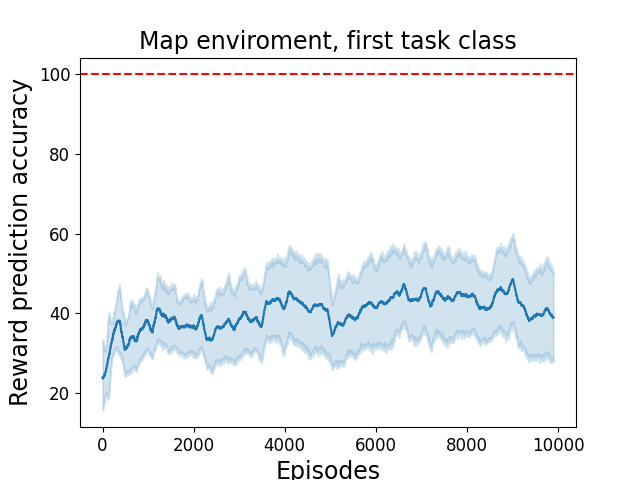
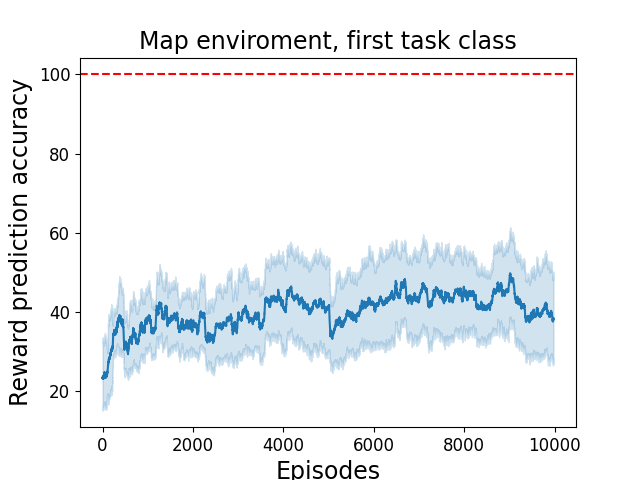
plots sequence classification

diff --git a/plot_final.py b/plot_final.py
@@ -70,7 +70,7 @@ def plot_sequence(source_1, task_category, destination, num_exp):
                 with open("{}/sequence_classification_accuracy_{}.txt".format(path_1, exp), "r") as f:
                     lines_1 = f.readlines()
                 lines_1 = [float(line.strip()) for line in lines_1]
-                lines_1 = np.convolve(lines_1, np.ones(100)/100, mode='valid')
+                lines_1 = np.convolve(lines_1, np.ones(30)/30, mode='valid')
                 results_1.append(lines_1)
 
     results_1 = np.array(results_1)
